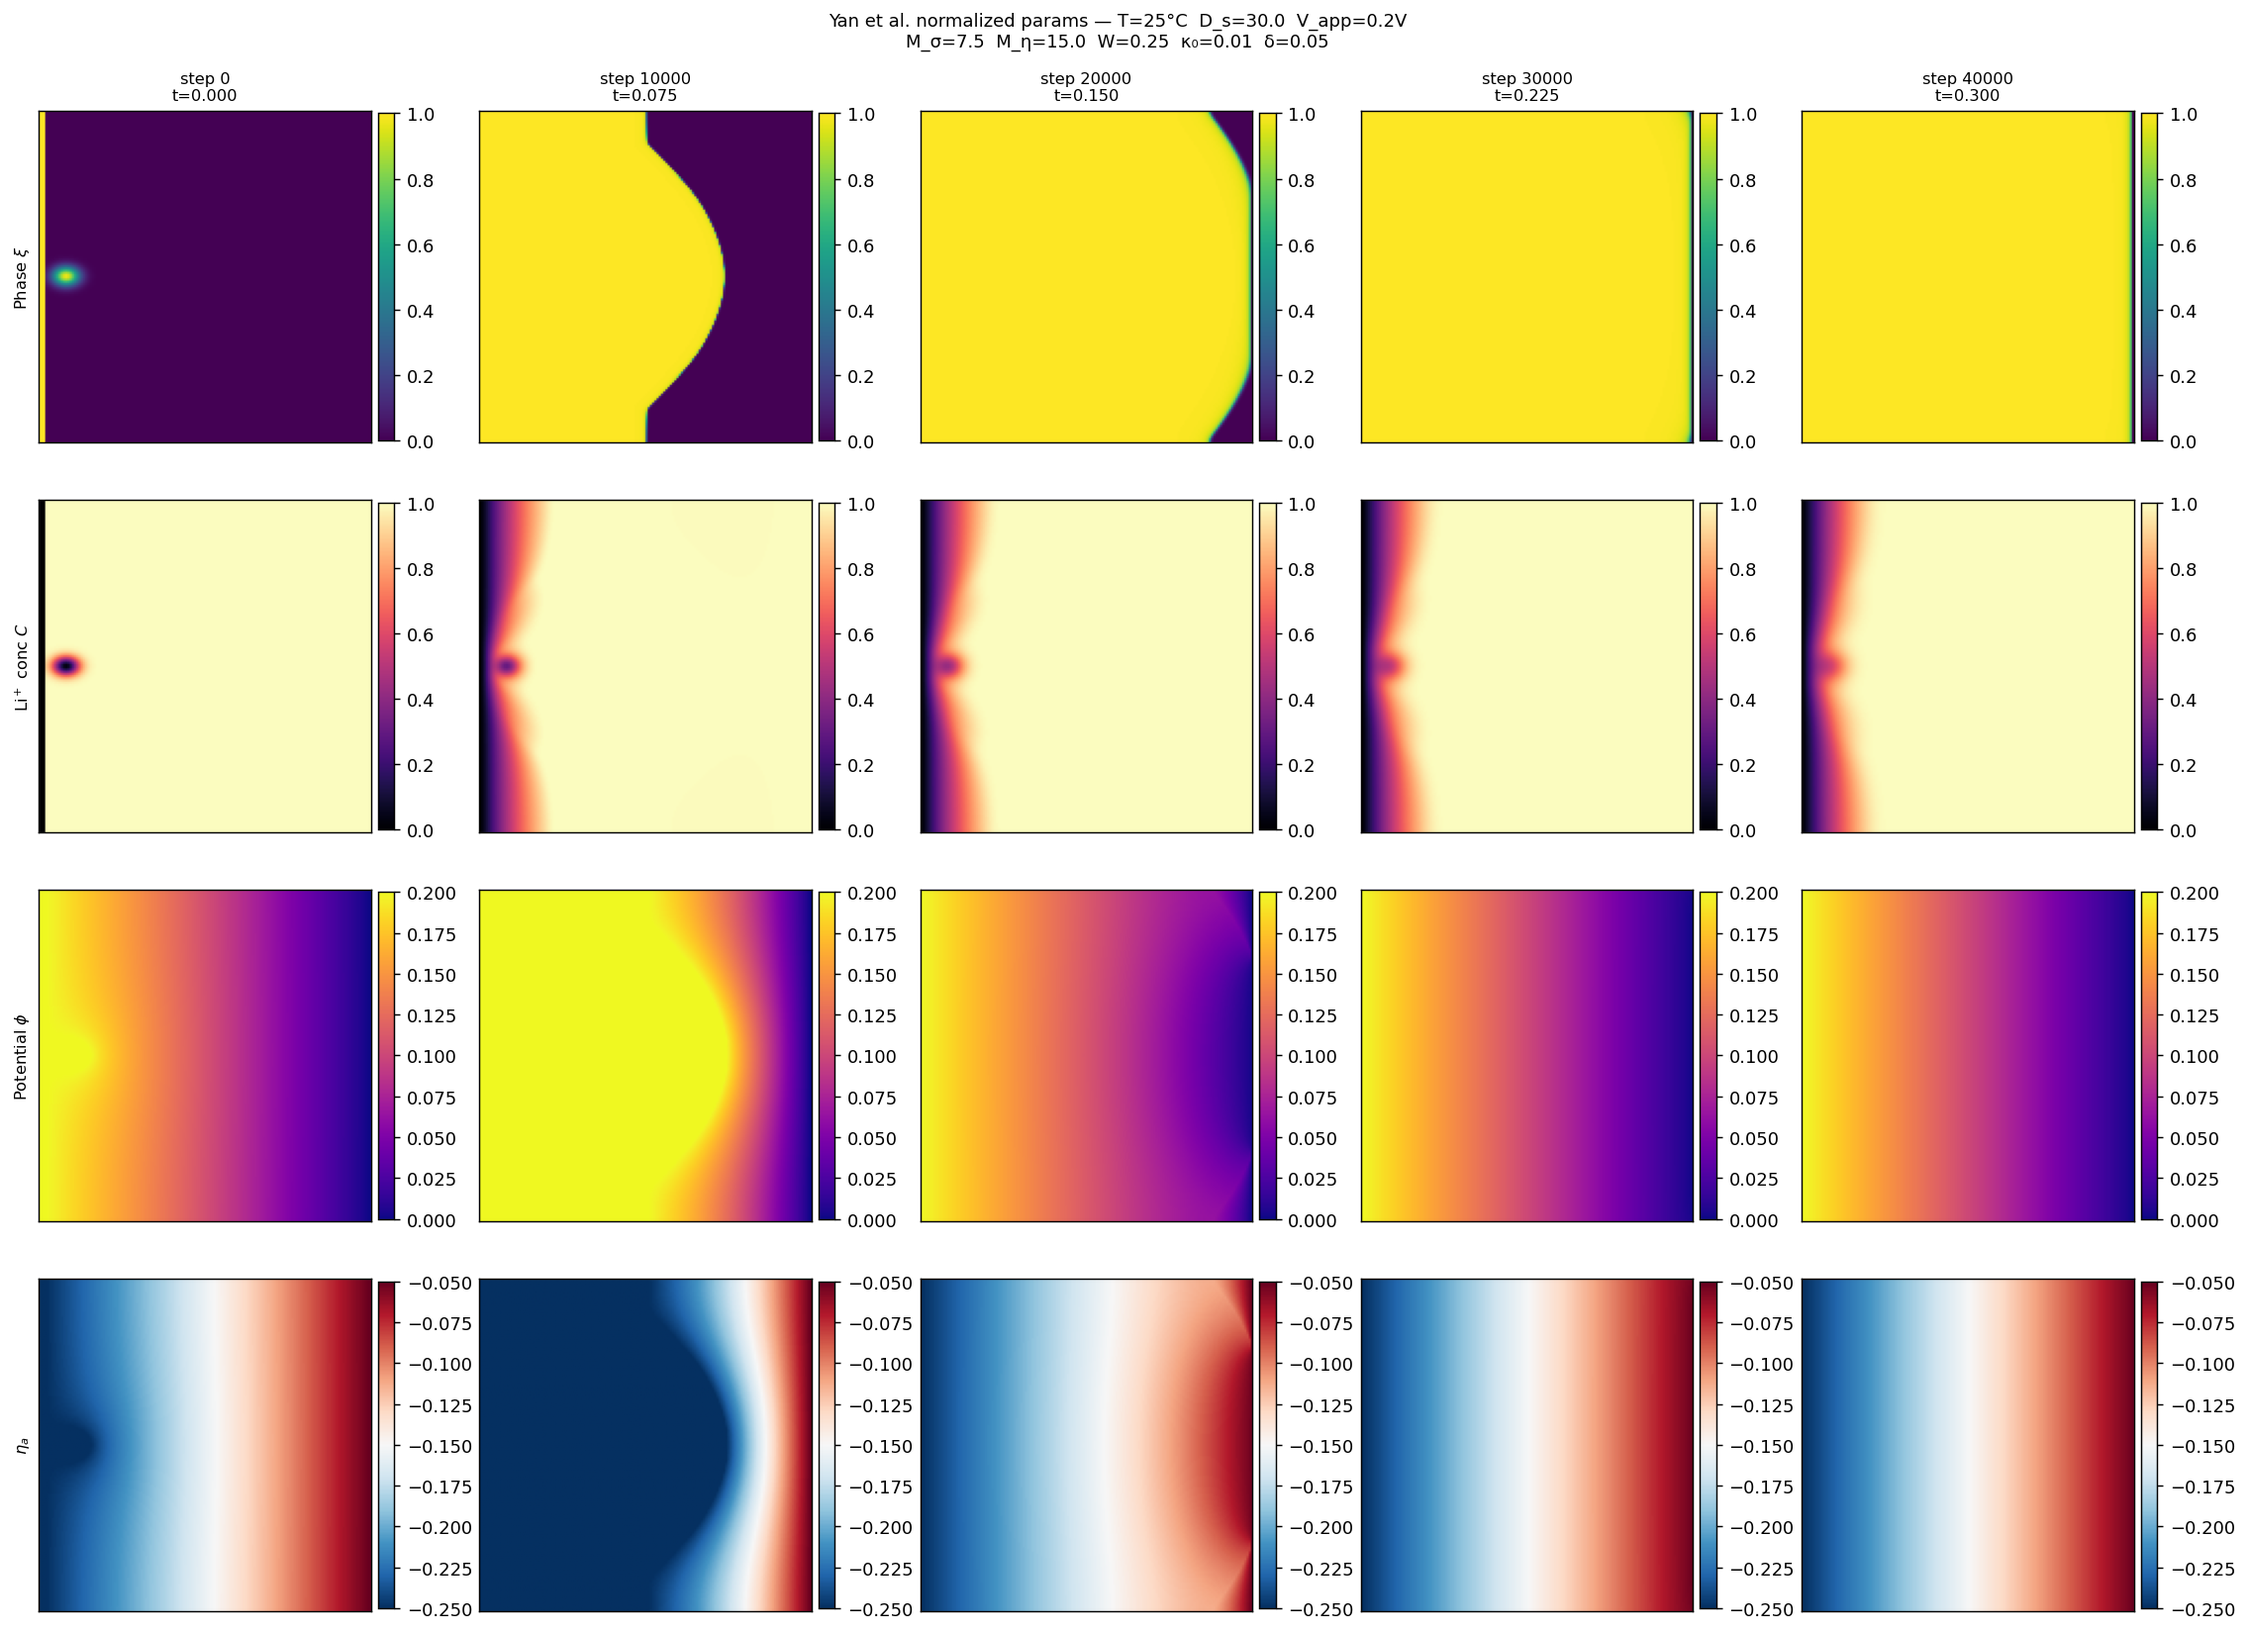
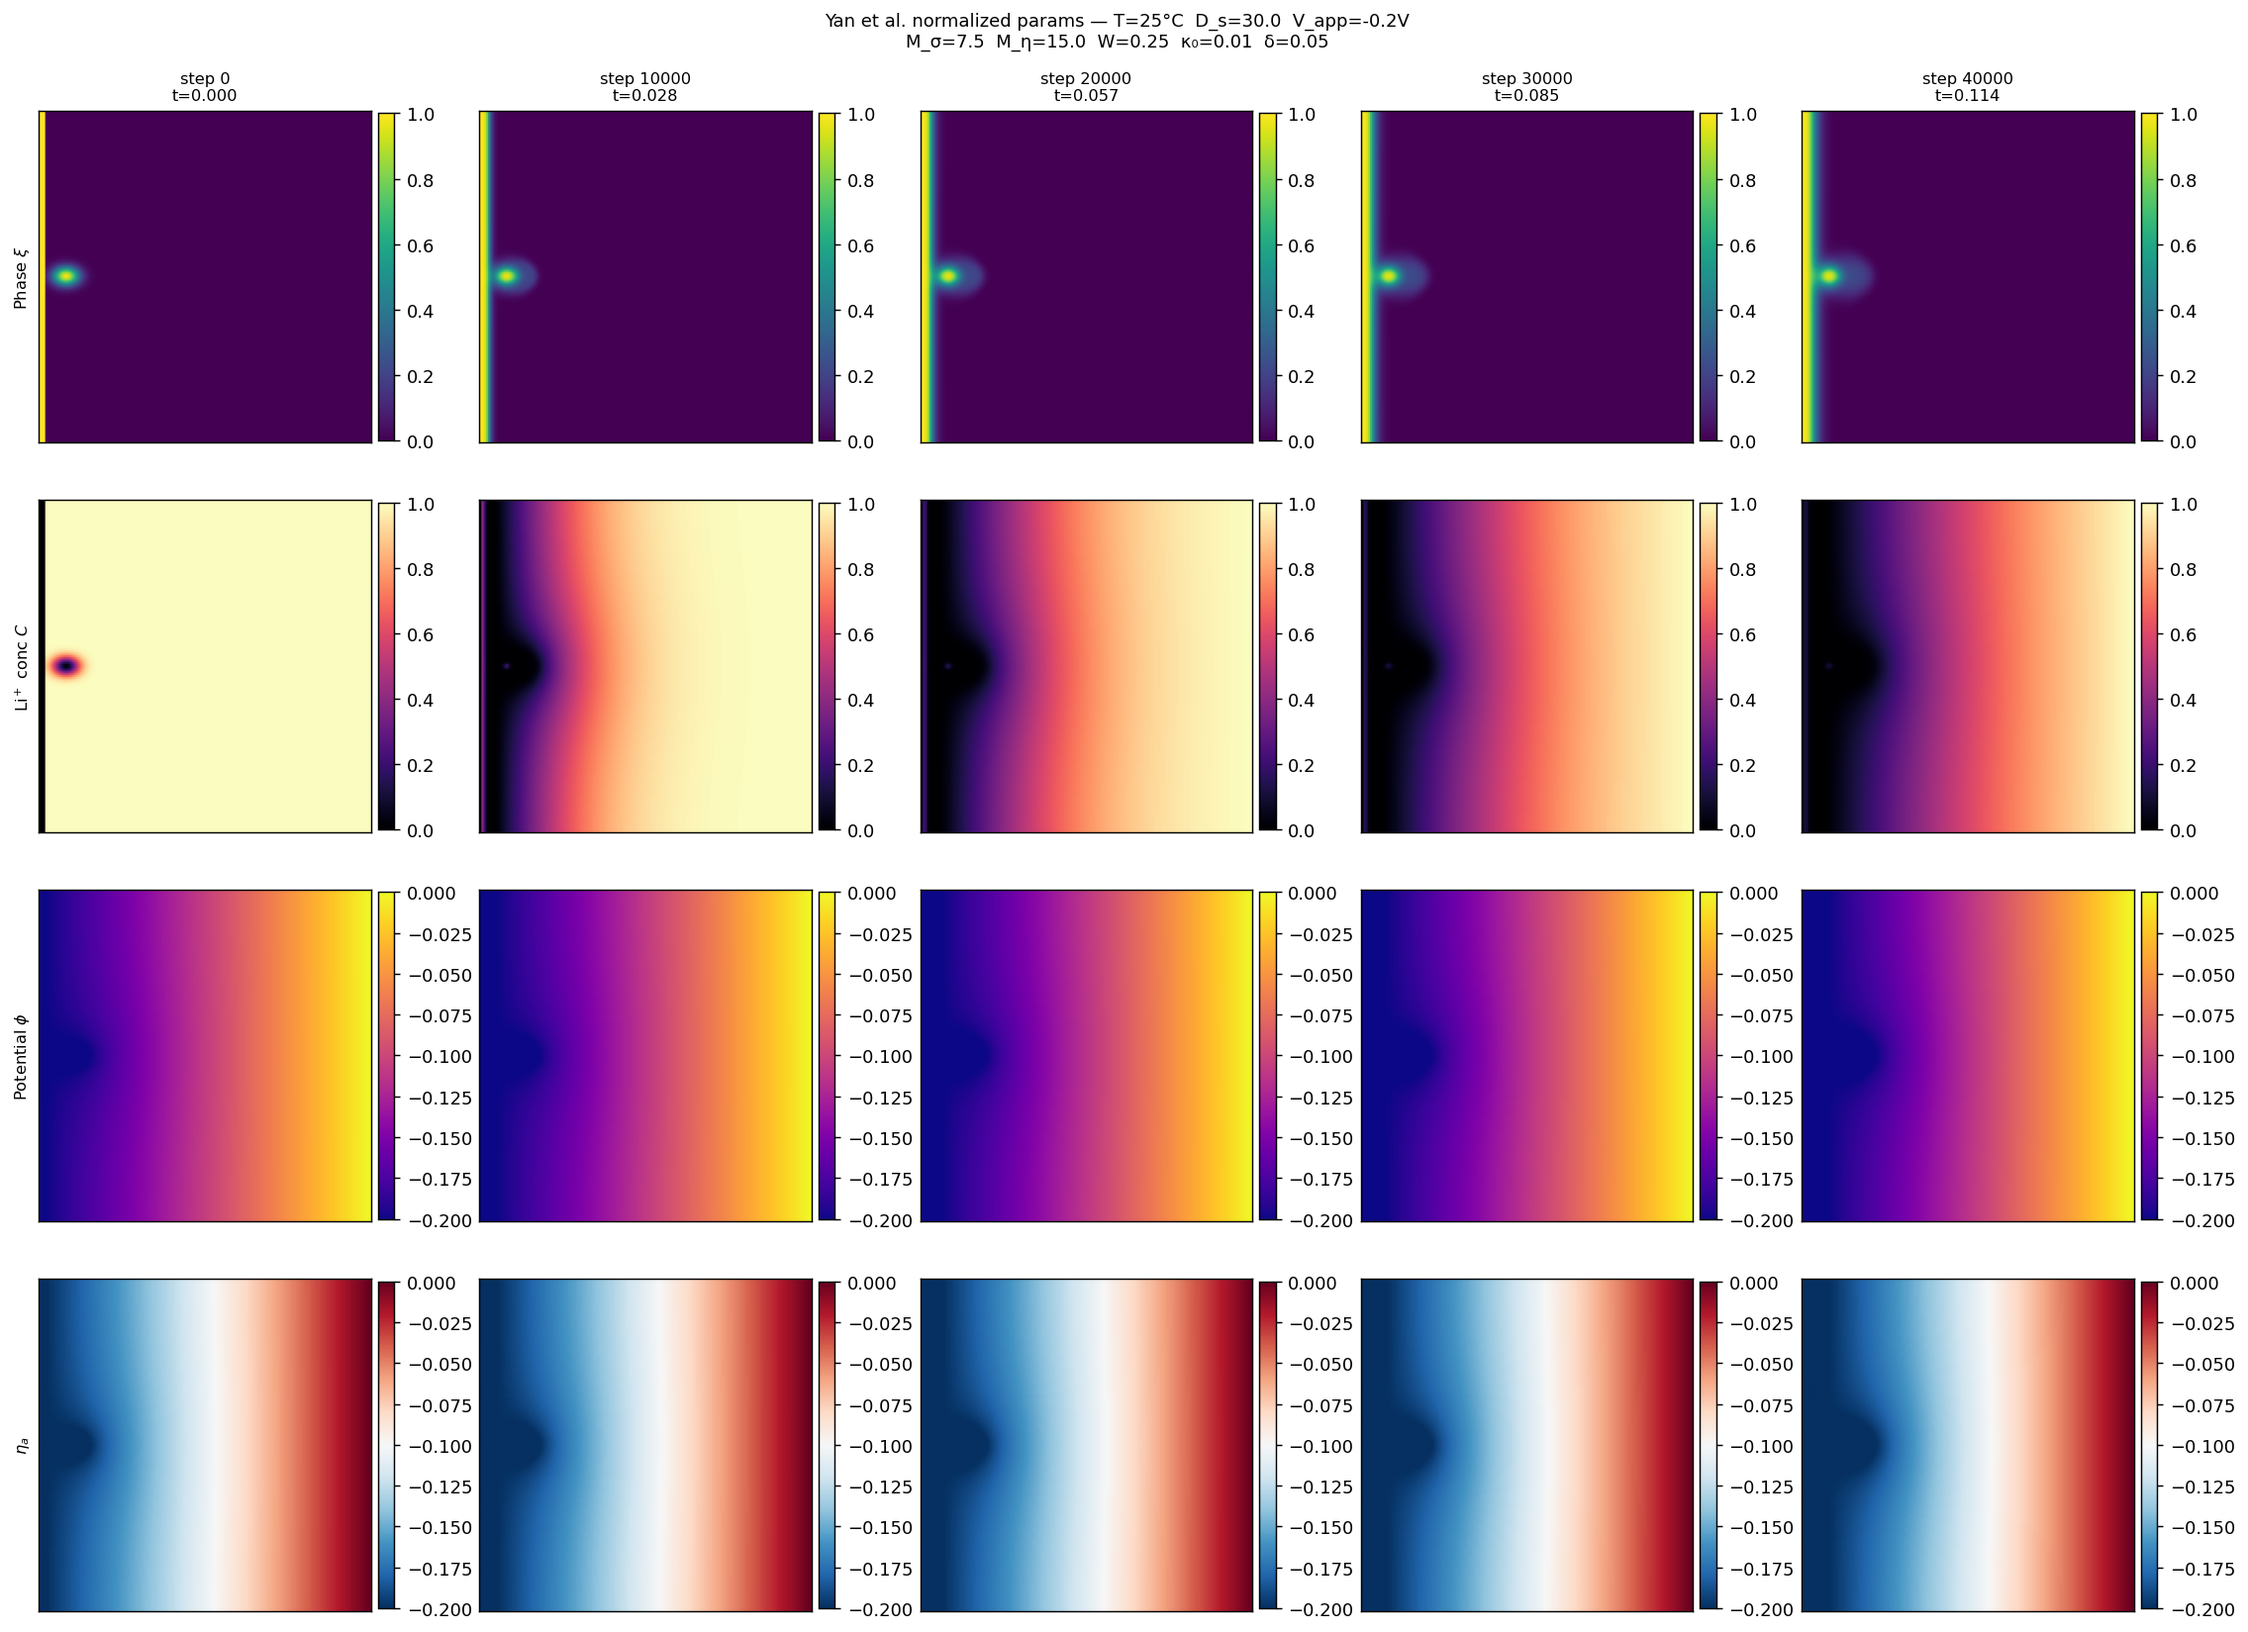
v3: fix overpotential sign convention and Li+ sink
- Overpotential: eta_a = phi - E0 with E0 = 0 and the electrode at -0.2 V.
  Previously eta_a = V_app - phi - E0 with E0 = 0.25, which held eta_a at
  -0.25 V at the interface regardless of the applied voltage.
- Li+ sink: -(c_s/c0) * dxi/dt (Yan eq. 18 / Chen eq. 9), with c_s/c0 = 76.4.
  Previously -h'(xi) * R_BV, which had the wrong sign and created Li+ where
  Li deposited.
- dt_react now includes the c_s/c0 factor.
- Regenerated yan_fields.png and yan_sweep.png.

Deposition is now limited by Li+ supply. With diffusion as the only supply
route, the deposit barely grows over 40,000 steps. The earlier bullet-shaped
growth came from the sink sign error. Electromigration is the next addition.

diff --git a/li_dendrite_v3.py b/li_dendrite_v3.py
@@ -76,8 +76,8 @@ mode        = 4           # 4-fold symmetry (BCC Li)
 
 # Electrochemistry
 alpha = 0.5               # α — asymmetry factor (Chen 2015 / Yan et al.)
-V_app = 0.20              # applied voltage, V (Chen 2015: Δφ = 0.20 V)
-E_std = 0.25              # E° — gives η_a ≈ −0.10 to −0.15 V at interface
+V_app = -0.20              # applied voltage, V (Chen 2015: Δφ = 0.20 V) : electrode negative vs far-field electrolyte
+E_std = 0.0              # E° — gives η_a ≈ −0.10 to −0.15 V at interface, Chen sets it 0
 
 # Conductivities (normalized)
 # Paper: σ̃_e = 10⁹, σ̃_s = 100 (ratio = 10⁷)
@@ -94,6 +94,7 @@ D_solution  = 30.0        # D̃_s — in electrolyte at reference T (298 K)
 # Temperature dependence of D (Yan et al. eq. 25)
 E_D   = 3.3e4             # activation energy, J/mol (Yan Table 1)
 T_ref = 298.15            # reference temperature, K
+cs_over_c0 = 76.4       # 7.64e4 / 1.0e3 (Yan §2.4)
 
 # =====================================================================
 # 4. SPATIAL OPERATORS
@@ -192,7 +193,7 @@ def solve_poisson(xi):
 
 def compute_eta_a(phi):
     """η_a = V_app − φ − E°   (negative everywhere → deposition)"""
-    return V_app - phi - E_std
+    return phi - E_std
 
 # =====================================================================
 # 9. BUTLER-VOLMER RATE  (the {} bracket in eq. 15 of Yan et al.)
@@ -259,13 +260,13 @@ def run_simulation(T_kelvin=298.15, nsteps=30000,
     # 3. Reaction:   dt < 1 / (2·M_η·|R_BV_max|·h'_max)
     #    h'_max = 30·(0.5)²·(0.5)² = 1.875
     #    At the interface, φ ≈ V_app/2, so η_a ≈ V_app − V_app/2 − E_std
-    eta_interface = V_app - V_app/2.0 - E_std   # estimate at interface center
+    eta_interface = V_app - E_std   # estimate at interface center
     bv_max = np.exp(min(alpha * n_elec * F_const * abs(eta_interface)
                         / (Rgas * T_kelvin), 50.0))
     h_prime_max = 1.875
 
     dt_diff   = 0.4 * dx**2 / (2.0 * max(D_s_T, M_sigma * kappa0))
-    dt_react  = 0.3 / (M_eta * bv_max * h_prime_max + 1e-30)
+    dt_react = 0.3 / (cs_over_c0 * M_eta * bv_max * h_prime_max + 1e-30)
     dt        = min(dt_diff, dt_react)
 
     if verbose:
@@ -299,7 +300,7 @@ def run_simulation(T_kelvin=298.15, nsteps=30000,
 
         # --- Eq. 16 of Yan et al. (concentration), simplified ---
         # Using D_eff(ξ,T) instead of uniform D_s
-        dc  = D_eff * laplacian(c) - h_prime(xi) * R_bv
+        dc = D_eff * laplacian(c) - cs_over_c0 * dxi
 
         xi += dt * dxi
         c  += dt * dc
